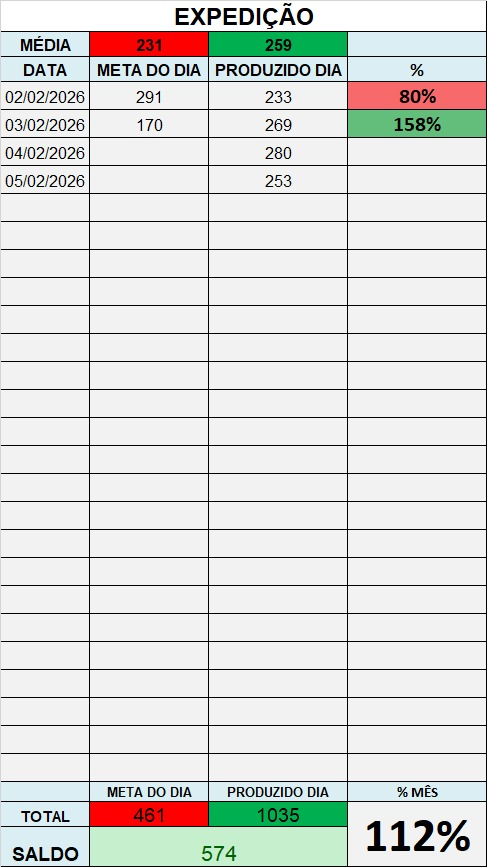
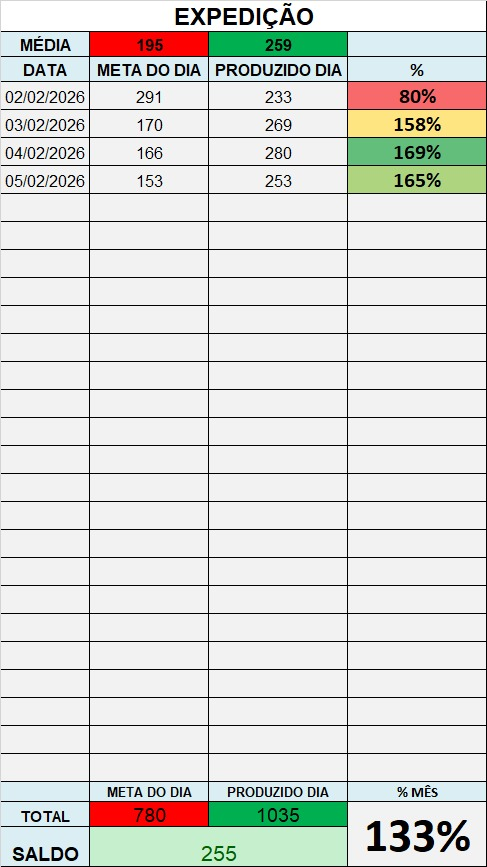
,,

diff --git a/back__incial.js b/back__incial.js
@@ -451,7 +451,7 @@ const unidades = {
             { data: "02/02/2026", captura: ["capturas/Unidade 2/Estofaria/2026/02-FEVEREIRO/02-pt1.jpg", "capturas/Unidade 2/Estofaria/2026/02-FEVEREIRO/02-pt2.jpg", "capturas/Unidade 2/Estofaria/2026/02-FEVEREIRO/02-pt3.jpg", "capturas/Unidade 2/Estofaria/2026/02-FEVEREIRO/02-pt4.jpg"] },
             { data: "03/02/2025", captura: ["capturas/Unidade 2/Estofaria/2026/02-FEVEREIRO/03-pt1.jpg", "capturas/Unidade 2/Estofaria/2026/02-FEVEREIRO/03-pt2.jpg", "capturas/Unidade 2/Estofaria/2026/02-FEVEREIRO/03-pt3.jpg", "capturas/Unidade 2/Estofaria/2026/02-FEVEREIRO/03-pt4.jpg"] },
             { data: "04/02/2026", captura: ["capturas/Unidade 2/Estofaria/2026/02-FEVEREIRO/04-pt1.jpg", "capturas/Unidade 2/Estofaria/2026/02-FEVEREIRO/04-pt2.jpg", "capturas/Unidade 2/Estofaria/2026/02-FEVEREIRO/04-pt3.jpg", "capturas/Unidade 2/Estofaria/2026/02-FEVEREIRO/04-pt4.jpg"] },
-
+            { data: "05/02/2026", captura: ["capturas/Unidade 2/Estofaria/2026/02-FEVEREIRO/05-pt1.jpg", "capturas/Unidade 2/Estofaria/2026/02-FEVEREIRO/05-pt2.jpg", "capturas/Unidade 2/Estofaria/2026/02-FEVEREIRO/05-pt3.jpg", "capturas/Unidade 2/Estofaria/2026/02-FEVEREIRO/05-pt4.jpg"] },
 
 
 
@@ -522,7 +522,7 @@ const unidades = {
             { data: "02/02/2026", captura: ["capturas/Unidade 2/Usinagem/2026/02-FEVEREIRO/CNC/02.JPG"] },
             { data: "03/02/2026", captura: ["capturas/Unidade 2/Usinagem/2026/02-FEVEREIRO/CNC/03.JPG"] },
             { data: "04/02/2026", captura: ["capturas/Unidade 2/Usinagem/2026/02-FEVEREIRO/CNC/04.jpeg"] },
-
+            { data: "05/02/2025", captura: ["capturas/Unidade 2/Usinagem/2026/02-FEVEREIRO/CNC/05.jpeg"] },
 
 
 
@@ -700,6 +700,7 @@ const unidades = {
 
             { data: "03/02/2026", captura: ["capturas/Unidade 4/Usinagem/2026/Calibradora/FEVEREIRO/03.jpg"] },
             { data: "04/02/2026", captura: ["capturas/Unidade 4/Usinagem/2026/Calibradora/FEVEREIRO/04.jpeg"] },
+            { data: "05/02/2026", captura: ["capturas/Unidade 4/Usinagem/2026/Calibradora/FEVEREIRO/05.jpeg"] },
 
 
             // { data: "", captura: [""] },
@@ -786,6 +787,7 @@ const unidades = {
 
             { data: "03/02/2026", captura: ["capturas/Unidade 4/Usinagem/2026/Prensas/FEVEREIRO/03.jpg"] },
             { data: "04/02/2026", captura: ["capturas/Unidade 4/Usinagem/2026/Prensas/FEVEREIRO/04.jpeg"] },
+            { data: "05/02/2026", captura: ["capturas/Unidade 4/Usinagem/2026/Prensas/FEVEREIRO/05.jpeg"] },
 
 
              // { data: "", captura: [""] },
@@ -1292,6 +1294,7 @@ const unidades = {
             { data: "02/02/2026", captura: ["capturas/Unidade 4/Tempo_parado/2026/FEVEREIRO/02 MAQUIMOVEL.jpg", "capturas/Unidade 4/Tempo_parado/2026/FEVEREIRO/02 ITALPRESSE.jpg", "capturas/Unidade 4/Tempo_parado/2026/FEVEREIRO/02 HOME.jpg"] },
             { data: "03/02/2026", captura: ["capturas/Unidade 4/Tempo_parado/2026/FEVEREIRO/03 MAQUIMOVEL.jpg", "capturas/Unidade 4/Tempo_parado/2026/FEVEREIRO/03 ITALPRESSE.jpg", "capturas/Unidade 4/Tempo_parado/2026/FEVEREIRO/03 HOME.jpg"] },
             { data: "04/02/2026", captura: ["capturas/Unidade 4/Tempo_parado/2026/FEVEREIRO/04 home.jpeg", "capturas/Unidade 4/Tempo_parado/2026/FEVEREIRO/04 italpresse.jpeg", "capturas/Unidade 4/Tempo_parado/2026/FEVEREIRO/04 maquimovel.jpeg"] },
+            { data: "05/02/2026", captura: ["capturas/Unidade 4/Tempo_parado/2026/FEVEREIRO/05 maquimovel.jpeg", "capturas/Unidade 4/Tempo_parado/2026/FEVEREIRO/05 italpresse.jpeg", "capturas/Unidade 4/Tempo_parado/2026/FEVEREIRO/05 home.jpeg"] },
 
             
             // { data: "", captura: ["", "", ""] },
